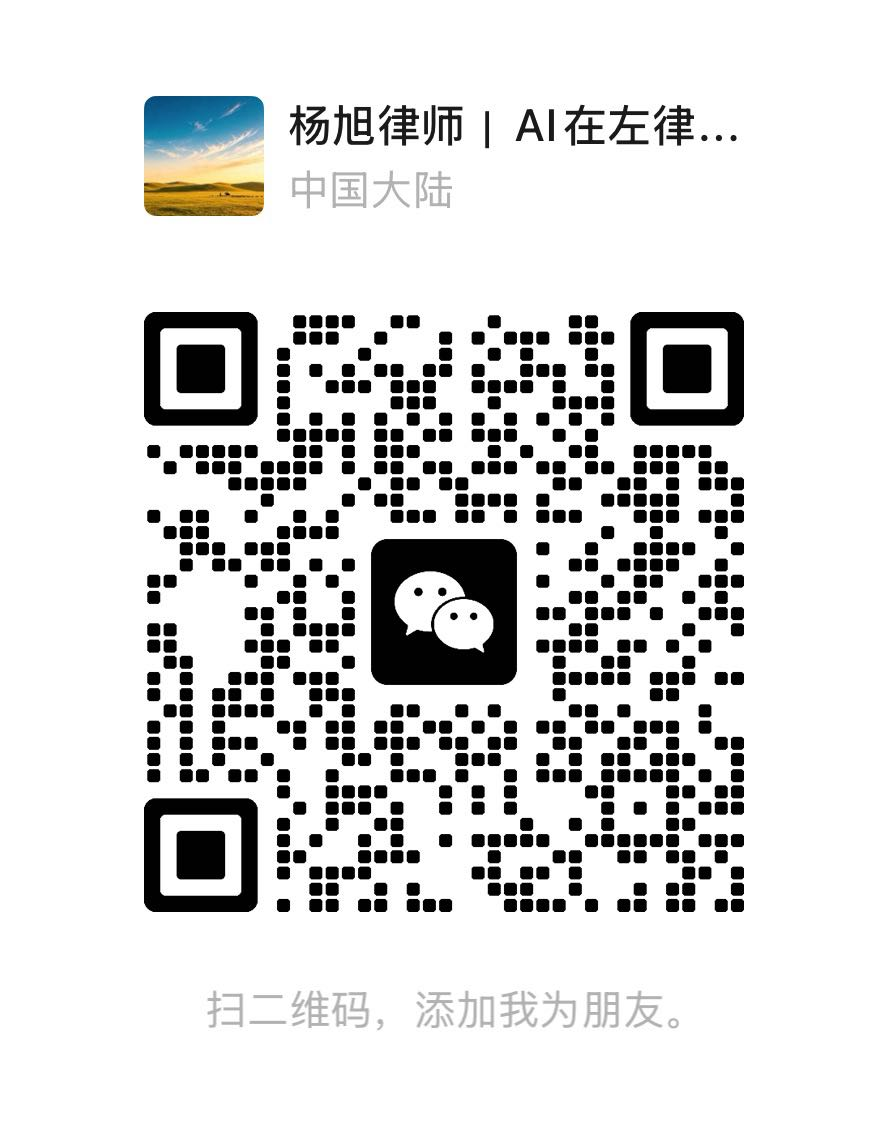
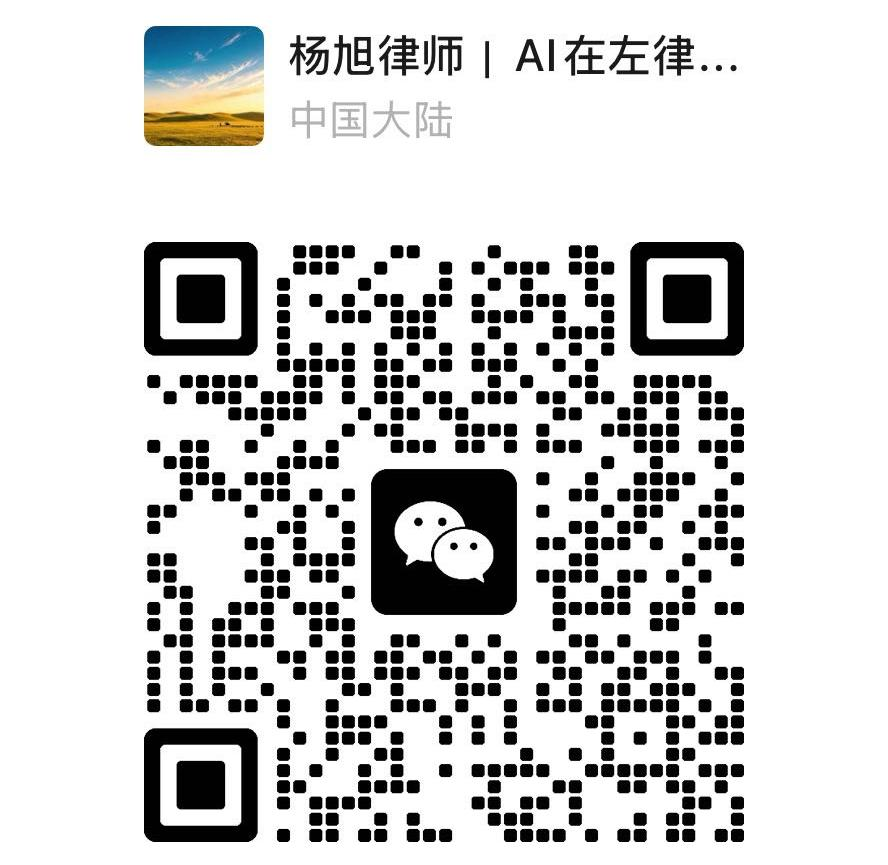
删除'律师会联系您'表述；QR图裁掉头像区

Changed region(s): [[0.152, 0.2497, 0.8514, 0.9988], [0.152, 0.0312, 0.7905, 0.2185]]

diff --git a/index.html b/index.html
@@ -252,7 +252,7 @@ body {
     <button class="submit-btn" id="submitBtn" onclick="submitContact()">
       <span id="submitText">获取免费报告</span>
     </button>
-    <p class="tips">内蒙古鑫阳律师事务所 · 律师会联系您 · 信息仅用于法律服务对接</p>
+    <p class="tips">内蒙古鑫阳律师事务所 · 扫码添加律师微信 · 信息仅用于法律服务对接</p>
   </div>
 
   <!-- 律师微信二维码 -->
@@ -479,10 +479,10 @@ function buildReport(data){
 }
 
 function buildConvinceBlock(score){
-  if(score>=12) return '<p>这些问题不是"咨询一下"就能解决的。<br>需要律师深度介入，逐项拆解、分步实施。<br><br>📞 律师会联系您，免费沟通具体方案。</p>';
-  if(score>=8) return '<p>一场诉讼的成本远高于提前防范。<br>不要让今天的疏忽变成明天的判决书。<br><br>📞 律师会联系您，帮您梳理风险、制定应对方案。</p>';
-  if(score>=4) return '<p>这些风险现在处理，成本可控。<br>等到对方起诉你再去补救，代价翻十倍。<br><br>📞 律师会联系您，免费评估风险等级。</p>';
-  return '<p>低风险是好事，但法律环境在变。<br>公司法新规的冲击对每家企业都适用。<br><br>📞 律师会联系您，帮您做好合规预案。</p>';
+  if(score>=12) return '<p>这些问题不是"咨询一下"就能解决的。<br>需要律师深度介入，逐项拆解、分步实施。<br><br>📞 扫码添加律师微信，免费沟通具体方案。</p>';
+  if(score>=8) return '<p>一场诉讼的成本远高于提前防范。<br>不要让今天的疏忽变成明天的判决书。<br><br>📞 扫码添加律师微信，帮您梳理风险。</p>';
+  if(score>=4) return '<p>这些风险现在处理，成本可控。<br>等到对方起诉你再去补救，代价翻十倍。<br><br>📞 扫码添加律师微信，免费评估风险等级。</p>';
+  return '<p>低风险是好事，但法律环境在变。<br>公司法新规的冲击对每家企业都适用。<br><br>📞 扫码添加律师微信，做好合规预案。</p>';
 }
 
 // ---------- 提交并展示报告 ----------
